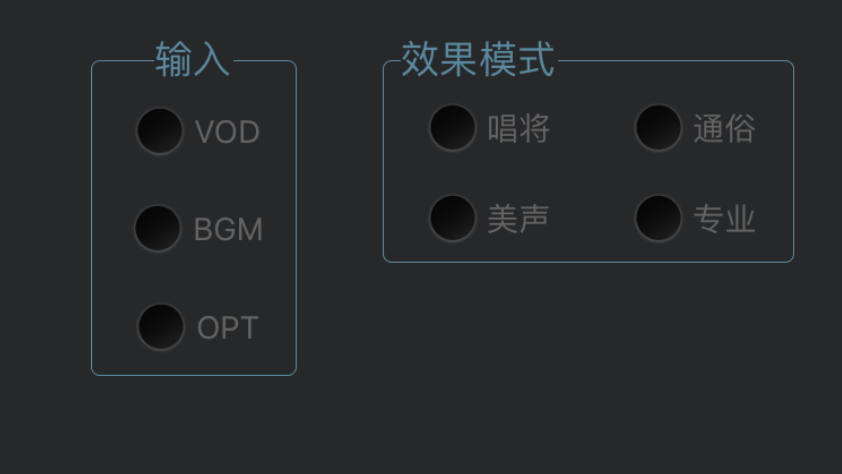
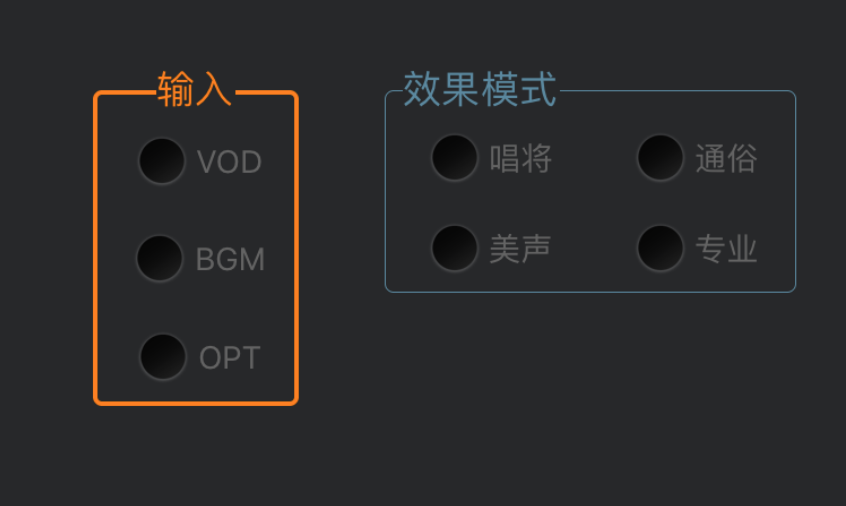
1.统一设置一个背景色 2.标题允许为空字符

diff --git a/WGQRadioGroup/WGQRadioGroup.swift b/WGQRadioGroup/WGQRadioGroup.swift
@@ -9,14 +9,11 @@
 import UIKit
 
 struct RadioBaseInfo {
-
-    var groupTitle:String = "";
+    var backgroundColor:UIColor = UIColor.init(red: 39/255, green: 40/255, blue: 42/255, alpha: 1);
+    
+    var groupTitle:String? = "";
     var groupTitleFont:UIFont = UIFont.systemFont(ofSize: 17);
-    
 
-    //TODO: 还没完善,暂时需要设置一下标题背景色,与你的主背景色一样就行了
-    var groupTitleBackColor:UIColor = UIColor.init(red: 39/255, green: 40/255, blue: 42/255, alpha: 1);
-    
     var groupTitleTextColor:UIColor = UIColor.init(red: 89/255, green: 136/255, blue: 160/255, alpha: 1);
     var groupTitleLeftGap:CGFloat = 4;
     var groupTitleCenterX:Bool = false;
@@ -153,25 +150,27 @@ class WGQRadioGroup: UIView {
     
     private func setupViews()
     {
-//        self.backgroundColor = UIColor.cyan;
+        self.backgroundColor = baseInfo?.backgroundColor;
         self.translatesAutoresizingMaskIntoConstraints = false;
         container.translatesAutoresizingMaskIntoConstraints = false;
         titleLabel.translatesAutoresizingMaskIntoConstraints = false;
         
         var collectionViewTop:CGFloat = 0.0;
-        if baseInfo?.groupTitle.isEmpty == false {
+        if (baseInfo?.groupTitle?.isEmpty == false) ||
+            (baseInfo?.groupTitle == ""){
             //先计算出label的尺寸
             titleLabel.font = baseInfo?.groupTitleFont;
             titleLabel.text = baseInfo?.groupTitle;
             titleLabel.textColor = baseInfo?.groupTitleTextColor;
             labelSize = titleLabel.sizeThatFits(CGSize.zero);
             print(labelSize);
-            titleLabel.backgroundColor = baseInfo?.groupTitleBackColor;
+            titleLabel.backgroundColor = baseInfo?.backgroundColor;
             
             
             collectionViewTop = labelSize.height;
             //添加容器
             addSubview(container);
+            container.backgroundColor = baseInfo?.backgroundColor
             addSubview(titleLabel);
             
             container.layer.borderColor = baseInfo?.borderColor.cgColor;

diff --git a/WGQRadioGroupDemo/ViewController.swift b/WGQRadioGroupDemo/ViewController.swift
@@ -43,7 +43,6 @@ class ViewController: UIViewController {
     func initParameters() {
         self.view.translatesAutoresizingMaskIntoConstraints = false;
         view.backgroundColor = UIColor.init(red: 39/255, green: 40/255, blue: 42/255, alpha: 1);
-
     }
     
     func setupViews() {
@@ -51,11 +50,14 @@ class ViewController: UIViewController {
         //初始化一些参数
         let imageSideLength = 23;
         var baseInfo = RadioBaseInfo();
+        baseInfo.backgroundColor = self.view.backgroundColor!; //建议设置为与主背景色一致
         baseInfo.normalImage = baseInfo.normalImage.reSizeImage(reSize: CGSize(width: imageSideLength, height: imageSideLength));
         baseInfo.selectImage = baseInfo.selectImage.reSizeImage(reSize: CGSize(width: imageSideLength, height: imageSideLength));
         baseInfo.groupTitle = "输入"
-        baseInfo.groupTitleBackColor = self.view.backgroundColor!;
         baseInfo.groupTitleCenterX = true;
+        baseInfo.groupTitleTextColor = UIColor.orange;
+        baseInfo.borderColor = UIColor.orange;
+        baseInfo.borderWidth = 2;
         
         
         //添加音乐输入模式单选组
@@ -70,10 +72,10 @@ class ViewController: UIViewController {
         //添加效果模式单选组
         //如果需要不同的选项样式可以重新创建一个BaseInfo
         var baseInfo2 = RadioBaseInfo();
+        baseInfo2.backgroundColor = self.view.backgroundColor!;
         baseInfo2.normalImage = baseInfo.normalImage.reSizeImage(reSize: CGSize(width: imageSideLength, height: imageSideLength));
         baseInfo2.selectImage = baseInfo.selectImage.reSizeImage(reSize: CGSize(width: imageSideLength, height: imageSideLength));
         baseInfo2.groupTitle = "效果模式"
-        baseInfo2.groupTitleBackColor = self.view.backgroundColor!;
         baseInfo2.groupTitleLeftGap = 8;
         let effectRadioOptions = ["唱将","通俗","美声","专业"];
         effectRadioGroup = WGQRadioGroup(baseInfomation: baseInfo2, options: effectRadioOptions,columnCount:2, delegate: self);

diff --git a/README.md b/README.md
@@ -69,7 +69,7 @@ extension ViewController:WGQRadioGroupProtocol {
 ```
   
 # 下一步  
-实现分组标题不用设置背景色,想办法将边框(border)与标题重叠的那一段隐去
+约束按钮的image为正方形
 
 # Contact me
 - Email:  disburden@gmail.com
